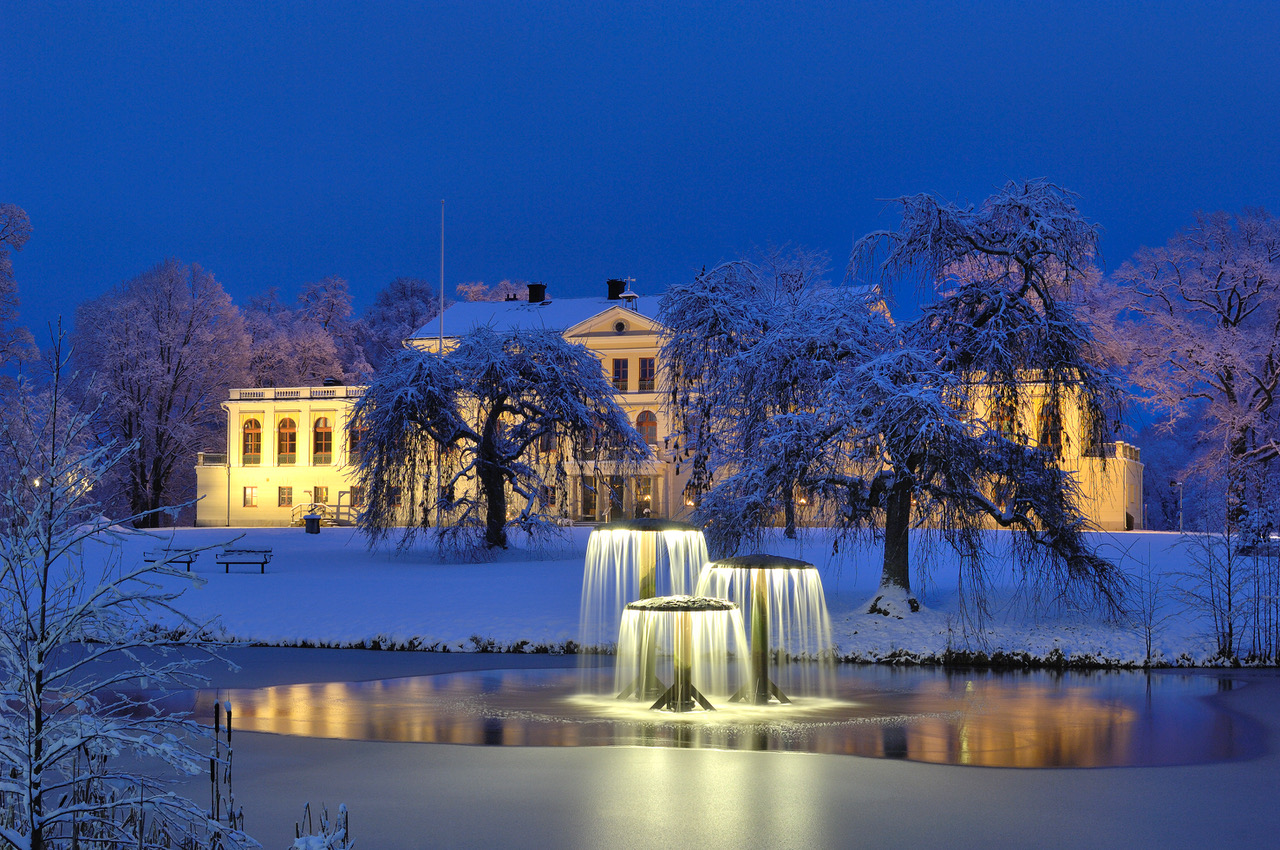
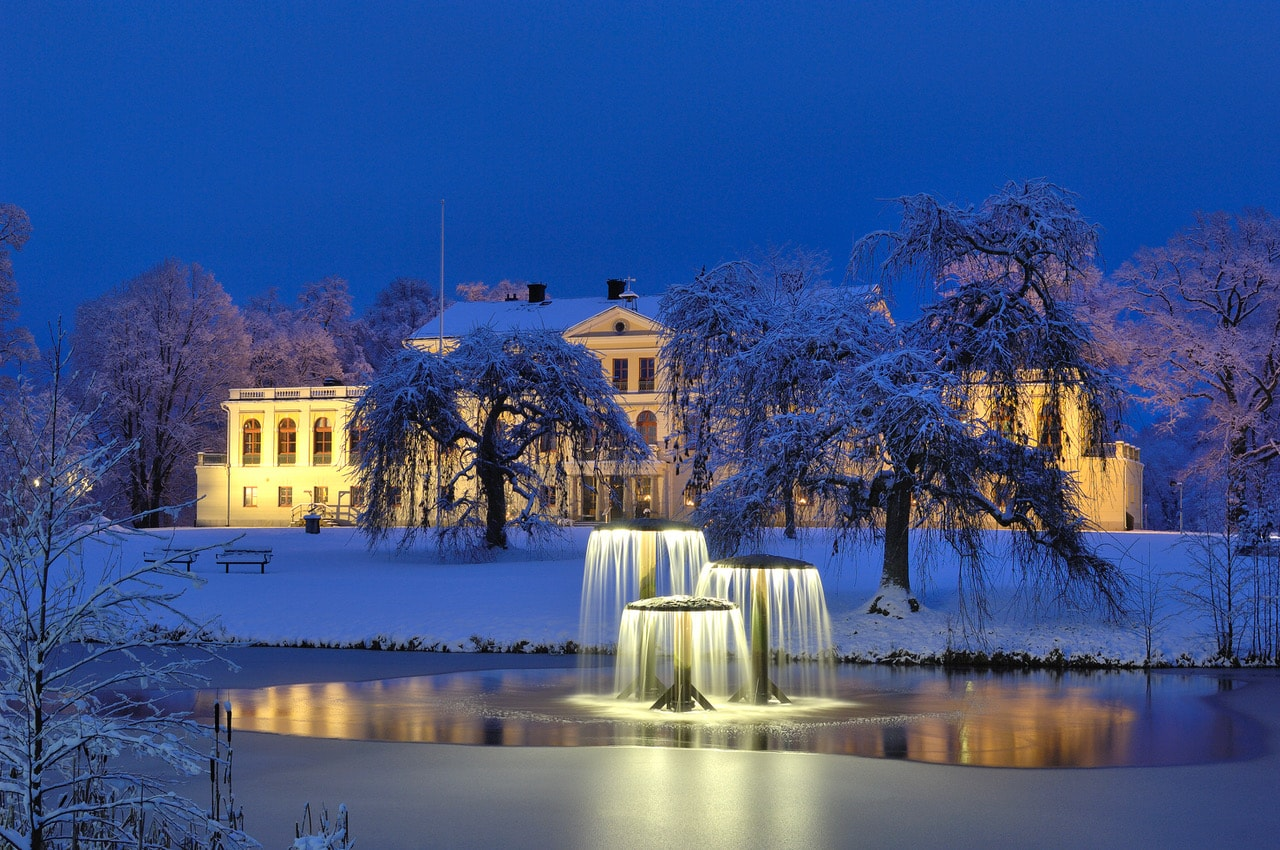
added minified pictures, updated maps and contact info

diff --git a/src/components/lrStaff.vue b/src/components/lrStaff.vue
@@ -37,60 +37,60 @@ export default {
     return {
       staff: [
         {
-          name: 'Elin Viitanen',
-          role: 'Revisorsassistent',
-          img: require('../img/ElinViitanen.png'),
-          phone: '0197652322',
-          mail: 'elin.viitanen@lr-revision.se'
+          name: 'Birgitta',
+          role: 'Roll',
+          img: require('../img/ving/birgitta-min.jpg'),
+          phone: '0000',
+          mail: 'email'
         },
         {
-          name: 'Elin Viitanen',
-          role: 'Revisorsassistent',
-          img: require('../img/ElinViitanen.png'),
-          phone: '0197652322',
-          mail: 'elin.viitanen@lr-revision.se'
+          name: 'Carolin',
+          role: 'Roll',
+          img: require('../img/ving/carolin-min.jpg'),
+          phone: '0000',
+          mail: 'email'
         },
         {
-          name: 'Elin Viitanen',
-          role: 'Revisorsassistent',
-          img: require('../img/ElinViitanen.png'),
-          phone: '0197652322',
-          mail: 'elin.viitanen@lr-revision.se'
+          name: 'Erika',
+          role: 'Roll',
+          img: require('../img/ving/erika-min.jpg'),
+          phone: '0000',
+          mail: 'email'
         },
         {
-          name: 'Elin Viitanen',
-          role: 'Revisorsassistent',
-          img: require('../img/ElinViitanen.png'),
-          phone: '0197652322',
-          mail: 'elin.viitanen@lr-revision.se'
+          name: 'Greta',
+          role: 'Roll',
+          img: require('../img/ving/greta-min.jpg'),
+          phone: '0000',
+          mail: 'email'
         },
         {
-          name: 'Elin Viitanen',
-          role: 'Revisorsassistent',
-          img: require('../img/ElinViitanen.png'),
-          phone: '0197652322',
-          mail: 'elin.viitanen@lr-revision.se'
+          name: 'Jonas',
+          role: 'Roll',
+          img: require('../img/ving/jonas-min.jpg'),
+          phone: '0000',
+          mail: 'email'
         },
         {
-          name: 'Elin Viitanen',
-          role: 'Revisorsassistent',
-          img: require('../img/ElinViitanen.png'),
-          phone: '0197652322',
-          mail: 'elin.viitanen@lr-revision.se'
+          name: 'Linda',
+          role: 'Roll',
+          img: require('../img/ving/linda-min.jpg'),
+          phone: '0000',
+          mail: 'email'
         },
         {
-          name: 'Elin Viitanen',
-          role: 'Revisorsassistent',
-          img: require('../img/ElinViitanen.png'),
-          phone: '0197652322',
-          mail: 'elin.viitanen@lr-revision.se'
+          name: 'Tomas',
+          role: 'Roll',
+          img: require('../img/ving/tomas-min.jpg'),
+          phone: '0000',
+          mail: 'email'
         },
         {
-          name: 'Elin Viitanen',
-          role: 'Revisorsassistent',
-          img: require('../img/ElinViitanen.png'),
-          phone: '0197652322',
-          mail: 'elin.viitanen@lr-revision.se'
+          name: 'Åsa',
+          role: 'Roll',
+          img: require('../img/ving/åsa-min.jpg'),
+          phone: '0000',
+          mail: 'email'
         }
       ]
     }

diff --git a/src/components/lrMaps.vue b/src/components/lrMaps.vue
@@ -7,7 +7,7 @@
 
     <!-- map to find the way to lr-orebro -->
     <div id="map-responsive">
-      <iframe id="lrMap" src="https://www.google.com/maps/embed?pb=!1m18!1m12!1m3!1d2036.877014942859!2d15.230097815428799!3d59.30161118164911!2m3!1f0!2f0!3f0!3m2!1i1024!2i768!4f13.1!3m3!1m2!1s0x465c156c2f43cb8f%3A0x3e4d739f5e063a9!2sBettorpsgatan+12C%2C+703+69+%C3%96rebro!5e0!3m2!1ssv!2sse!4v1511429759546" width="600" height="250" frameborder="0" style="border:0" allowfullscreen></iframe>
+      <iframe id="lrMap" src="https://www.google.com/maps/embed?pb=!1m14!1m8!1m3!1d16418.067626963733!2d15.8572539!3d59.0443845!3m2!1i1024!2i768!4f13.1!3m3!1m2!1s0x465eaf7af058becd%3A0x40db06d94abb7809!2sLR+Revision+%26+Redovisning+%C3%96rebro%2FVing%C3%A5ker+AB!5e0!3m2!1ssv!2sse!4v1528967440941" width="600" height="450" frameborder="0" style="border:0" allowfullscreen></iframe>
     </div>
 
   <!-- the social media icons for lr-orebro -->
@@ -17,7 +17,7 @@
       </div>
       <div class="lrMediaItem">
         <a class="lrMediaIcon" href="https://www.facebook.com/" target="_blank"> <i class="fa fa-facebook-square" aria-hidden="true"></i> </a>
-        <a class="lrMediaIcon" href="https://www.linkedin.com/" target="_blank"> <i class="fa fa-linkedin-square" aria-hidden="true"></i> </a>
+        <a class="lrMediaIcon" href="https://www.linkedin.com/company/lr-revision-&-redovisning-sverige-ab/" target="_blank"> <i class="fa fa-linkedin-square" aria-hidden="true"></i> </a>
       </div>
     </div>
 </div> <!-- / section container -->

diff --git a/src/components/lrContactBanner.vue b/src/components/lrContactBanner.vue
@@ -16,13 +16,13 @@
                 <!-- Contact info to LR örebro -->
                 <div class="columns contactInfo">
                     <div class="column">
-                        <i class="fa fa-phone" aria-hidden="true"></i> <a href="tel:019183850">019 18 38 50</a>
+                        <i class="fa fa-phone" aria-hidden="true"></i> <a href="tel:019183850">0151-136 00</a>
                     </div>
                     <div class="column contactBtn">
                         <a id="lr-button-more" class="button is-info is-outlined" @click='openModal()'>KONTAKT</a>
                     </div>
                     <div class="column">
-                        <i class="fa fa-paper-plane" aria-hidden="true"></i> <a href="mailto:hej@lr-orebro.se">hej@lr-orebro.se</a>
+                        <i class="fa fa-paper-plane" aria-hidden="true"></i> <a href="mailto:hej@lr-vingaker.se">hej@lr-vingaker.se</a>
                     </div>
                 </div>
             </div>

diff --git a/src/components/contactModal.vue b/src/components/contactModal.vue
@@ -11,7 +11,7 @@
                 <h1>Hej</h1>
                 <img src="../img/waving-hand.png">
                 <p>Vad kan vi hjälpa dig med? Skriv ett meddelande så kontaktar vi dig. Önskas en offert vänligen bifoga antal anställda samt fakturor per månad.</p>
-                <form id="gform" form="form" method="POST" action="http://formspree.io/hej@lr-orebro.se">
+                <form id="gform" form="form" method="POST" action="http://formspree.io/hej@lr-vingaker.se">
                     <div class="control has-icons-left has-icons-right">
                         <p :class="{ 'control': true }">
                             <input v-validate="'required|email'" :class="{'input': true, 'is-danger': errors.has('email') }" name="email" type="text" placeholder="Email">

diff --git a/src/components/lrMenu.vue b/src/components/lrMenu.vue
@@ -32,7 +32,7 @@ export default {
 }
 </script>
 
-<style lang="scss">
+<style scoped lang="scss">
 #menu {
   position: fixed;
   z-index: 250;
